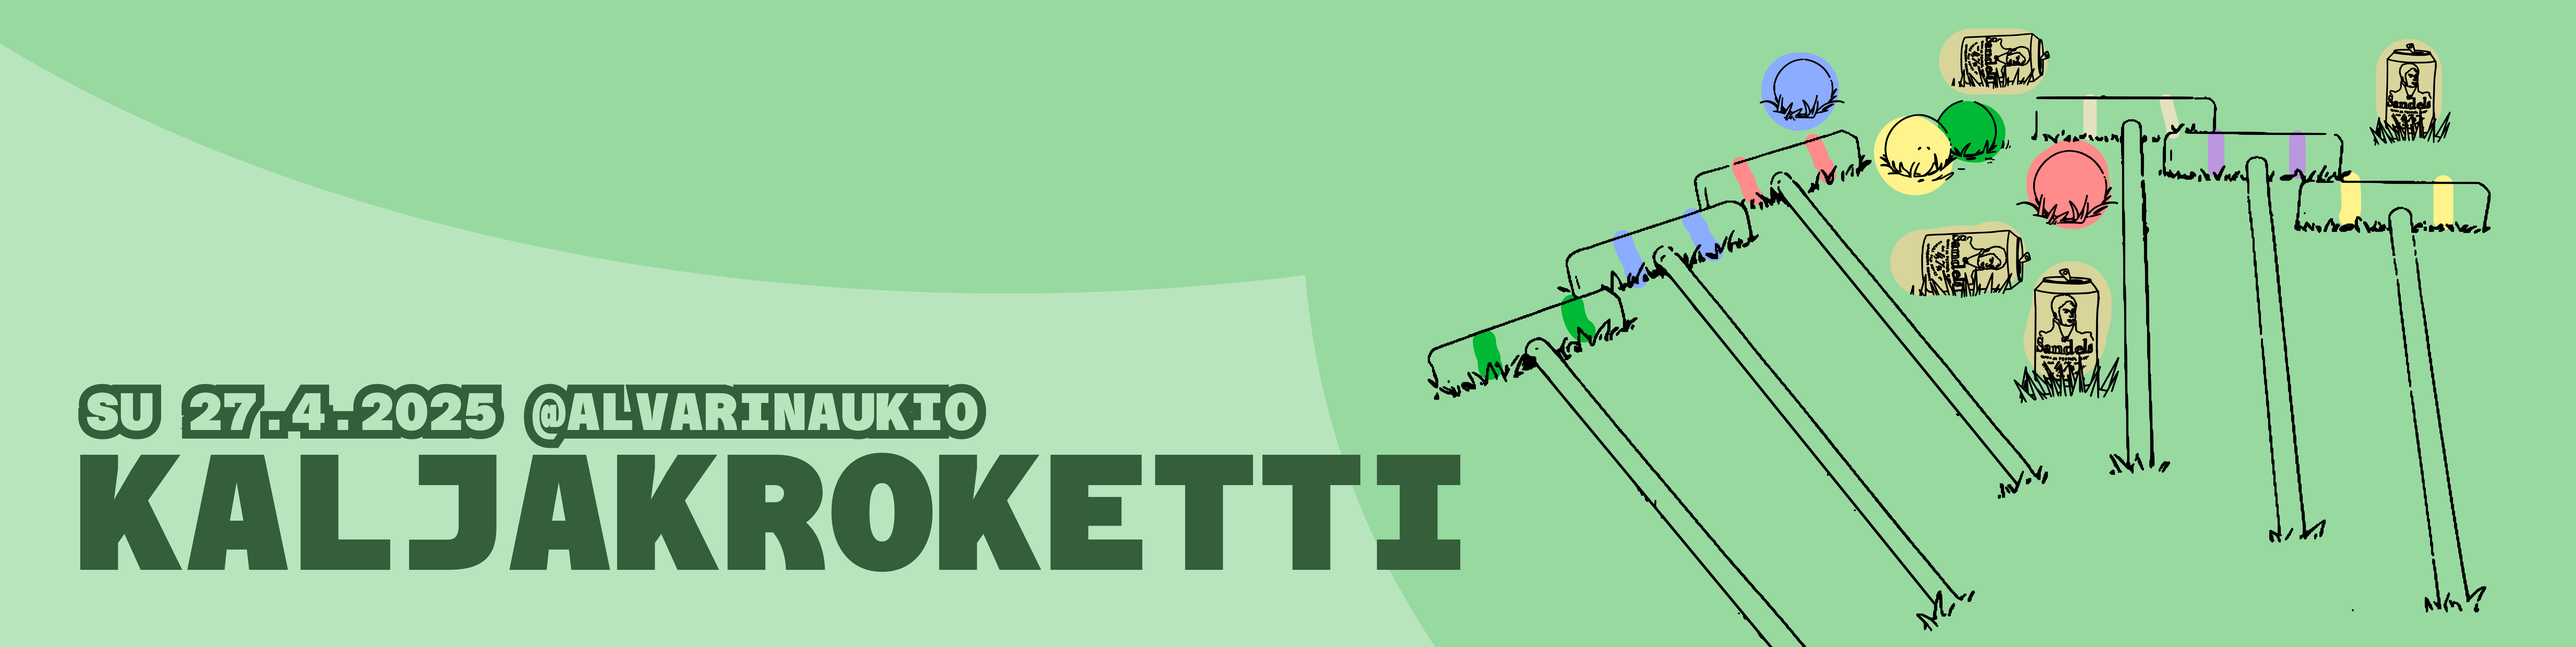
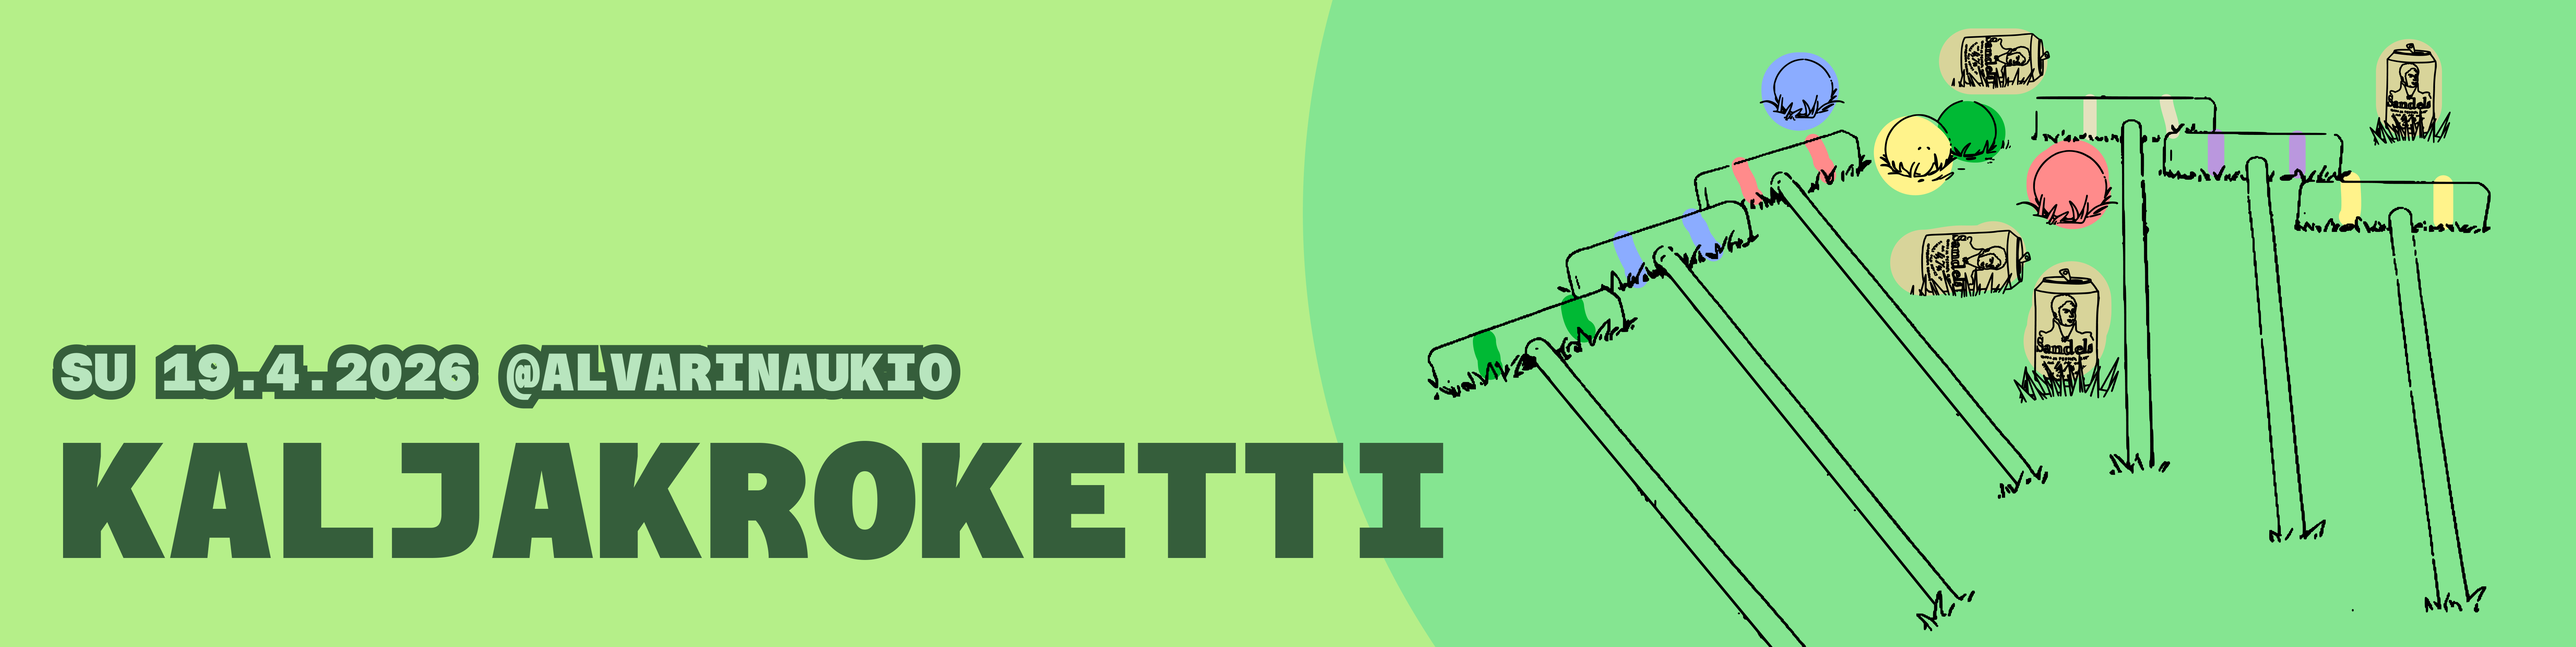
vuoden 2026 muutokset

diff --git a/src/App.js b/src/App.js
@@ -68,18 +68,18 @@ function App() {
           <h3 className="tekstikeskelle">
             Wappu on kohta täällä, mikä voi tarkoittaa vain yhtä asiaa. Kaljakroketti, tuo urheilulajeista jaloin, tulee taas!
           </h3>
-          <p className="tekstikeskelle">Perinteinen kaljakrokettiturnaus järjestetään tänä vuonna Wappuviikon sunnuntaina 27.4. Alvarin aukiolla. Suurta urheilujuhlaa ovat tavan mukaan tervetulleita viettämään kaikki kroketista sekä hyvästä seurasta nauttivat hiilihapotettujen juomien ystävät, jotka löytävät ympärilleen 4-6 hengen joukkueen. Perinteisesti taidon sijaan olennaisempaa on pitää hauskaa, joten asenne ja huumorintaju ovat aikaisempaa kokemusta tärkeämpiä. Kaljaakaan ei tarvitse juoda, vaan sen voi korvata muilla hiilihapotetuilla tölkkijuomilla.</p>
+          <p className="tekstikeskelle">Perinteinen kaljakrokettiturnaus järjestetään tänä vuonna Wappuviikon sunnuntaina 19.4. Alvarin aukiolla. Suurta urheilujuhlaa ovat tavan mukaan tervetulleita viettämään kaikki kroketista sekä hyvästä seurasta nauttivat hiilihapotettujen juomien ystävät, jotka löytävät ympärilleen 4-6 hengen joukkueen. Perinteisesti taidon sijaan olennaisempaa on pitää hauskaa, joten asenne ja huumorintaju ovat aikaisempaa kokemusta tärkeämpiä. Kaljaakaan ei tarvitse juoda, vaan sen voi korvata muilla hiilihapotetuilla tölkkijuomilla.</p>
         </div>
       </div>
       <div className="side-by-side" id='ilmo'>
       
         <h2>Ilmoittautuminen</h2>
         <div className="full-container">
-          <p>Kerää 4-6 hengen tiimi ja ilmoittaudu mukaan kaljakrokettiin <span className="bold">1.4.2025 klo 12.00 alkaen</span>, mutta viimeistään <span className="bold"> 15.4.2025 klo 23.59</span> mennessä KideAppissa!</p>
+          <p>Kerää 4-6 hengen tiimi ja ilmoittaudu mukaan kaljakrokettiin <span className="bold">1.4.2026 klo 12.00 alkaen</span>, mutta viimeistään <span className="bold"> 10.4.2026 klo 23.59</span> mennessä KideAppissa!</p>
           <br/><br/>Kutsuvieraille on oma kiintiö. Kutsuvieraiksi on kutsuttu muiden kiltojen ja ainejärjestöjen edustajia. Kutsuvierasilmoittautuminen on auki aiemmin ja kaikki ylijääneet paikat lisätään avoimeen lipunmyyntiin!
           <br/><br/>Osallistumismaksulla katetaan sakkojuomat ja krokettivälineet, eli varsinaiset pelijuomat tulee tuoda paikalle itse.
           <p>Peliasu on vapaa mutta suositeltava - pelaajat voivat pukeutua edustamansa järjestön haalareihin taikka omaan yhteneväiseen peliasuun.</p>
-          <br/><br/><p><a className="a-link" href="https://kide.app/events/4dcc39e9-26d1-4289-a740-8faf83d1cf93" rel="noreferrer noopener " target="_blank" > Linkki ilmoittautumiseen </a></p>
+          <br/><br/><p><a className="a-link" href="https://kide.app/events/3457cf12-45f9-41af-af9d-bb469db88766" rel="noreferrer noopener " target="_blank" > Linkki ilmoittautumiseen </a></p>
           
           </div>
        
@@ -103,26 +103,23 @@ function App() {
 
       <div className="side-by-side" id='aikataulu'>
       
-        <h2>Aikataulu<br/>(tarkentuu myöhemmin) </h2>
+        <h2>Aikataulu<br/><br/>(tarkentuu myöhemmin) </h2>
   
         <div className="full-container">
         
           <div className='aikataulu-container'>
             <div className="sarjapadding">
               <h4>Höyhensarja</h4>
-              <h3>16.30 Alkulohkot A, B, C ja D</h3>
-              <h3>17.15 Alkulohkot E, F, G ja H</h3>
-              <h3>18.00 Jatkosarjat (lohko 1)</h3>
-              <h3>18.45 Jatkosarjat (lohko 2)</h3>
-              <h3>19.30 Finaalit</h3>
+              <h3>14.00 Alkulohkot</h3>
+              <h3>15.00 Jatkosarjat </h3>
+              <h3>17.00 Finaali</h3>
 
             </div>
             <div className="sarjapadding">
               <h4>Raskassarja</h4>
-              <h3>16.30 Alkulohkot A ja B</h3>
-              <h3>17.15 Alkulohkot C ja D</h3>
-              <h3>18.00 Jatkosarjat</h3>
-              <h3>19.00 Finaalit</h3>
+              <h3>14.00 Alkulohkot</h3>
+              <h3>15.00 Jatkosarjat</h3>
+              <h3>17.00 Finaali</h3>
             </div>
 
           </div>
@@ -185,7 +182,7 @@ function App() {
       <footer>
        
 
-          <h3>Kysyttävää? Ota yhteyttä Telegramissa @ToiKimi tai s-postilla yhteiso(a)athene.fi</h3>
+          <h3>Kysyttävää? Ota yhteyttä Telegramissa @yhteisoneuvos tai s-postilla yhteiso(a)athene.fi</h3>
           <br/>
           <br/>
           <br/>
